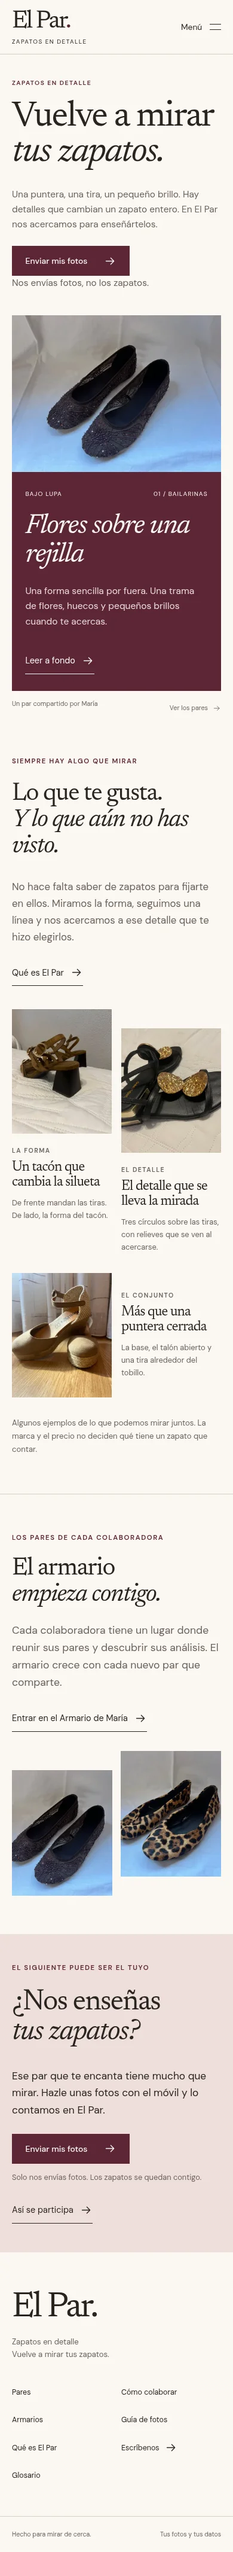
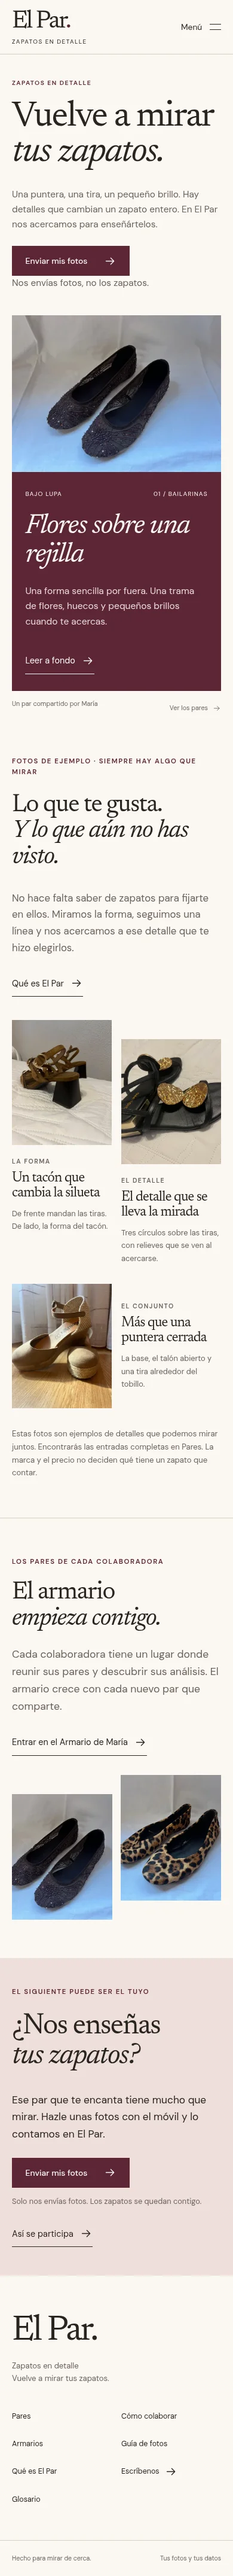
Distingue las fotos de ejemplo y completa la revisión de la web

diff --git a/sitio/tests/site.spec.ts b/sitio/tests/site.spec.ts
@@ -88,6 +88,14 @@ test('Inicio y participación abren el mismo Tally directamente', async ({ page 
   }
 });
 
+test('Las fotos de ejemplo se distinguen de las entradas del catálogo', async ({ page }) => {
+  await page.goto('/');
+  await expect(page.getByText('Fotos de ejemplo · Siempre hay algo que mirar')).toBeVisible();
+  await expect(page.locator('.look-row').getByRole('link')).toHaveCount(0);
+  await page.goto('/pares/');
+  await expect(page.locator('.pair-card')).toHaveCount(pairSources.length);
+});
+
 test('El menú móvil abre por teclado y se cierra con Escape', async ({ page }) => {
   await page.setViewportSize({ width: 390, height: 844 });
   await page.goto('/');

diff --git a/docs/REVISION.md b/docs/REVISION.md
@@ -28,11 +28,15 @@ Se usa la presentación aprobada de Drive, las fotografías autorizadas y citas 
 
 ![Guía con las seis vistas de PAR-0003 y su detalle ampliado](vistas/guia-de-fotos.webp)
 
+## Análisis con bloques MDX
+
+![Análisis de PAR-0003, con fotos junto a cada detalle y la cita de María](vistas/analisis.webp)
+
 ## Verificaciones
 
 - Tipos y compilación de Astro: 0 errores, advertencias o sugerencias.
 - 13 documentos HTML: enlaces locales, anclas, identificadores, estructura, imágenes y anchos reales de cada srcset verificados.
-- 15 pruebas de navegador: todas las rutas en cinco anchos de 360 a 1440 px, acceso directo a Tally, menú por teclado, definiciones, ampliación, guía e impresión desde una visita sin recorrer la página, armarios, recuperación del 404 y lectura sin JavaScript.
+- 16 pruebas de navegador: todas las rutas en cinco anchos de 360 a 1440 px, acceso directo a Tally, distinción entre fotos de ejemplo y catálogo, menú por teclado, definiciones, ampliación, guía e impresión desde una visita sin recorrer la página, armarios, recuperación del 404 y lectura sin JavaScript.
 - Auditoría automática axe con reglas WCAG 2 A/AA y 2.1 AA en todas las páginas públicas. Superar la auditoría automática no certifica accesibilidad completa; se revisaron además teclado y vistas de móvil y escritorio.
 - Formato de código comprobado y dependencias de producción sin vulnerabilidades en la auditoría de npm.
 - Servidor de desarrollo comprobado en una copia temporal: al guardar cambios de título y posición de la cita en MDX, la entrada local se actualiza sin editar una plantilla.

diff --git a/docs/AUDITORIA.md b/docs/AUDITORIA.md
@@ -118,3 +118,11 @@ El procesamiento de nuevas fotografías sigue descrito como procedimiento, no co
 - Teclado, ampliación con devolución de foco, navegación móvil, reducción de movimiento y pruebas automatizadas aportan una base de accesibilidad útil. Las pruebas automatizadas no equivalen a certificación completa.
 
 No hay un incumplimiento de dirección que exija rehacer de nuevo el producto. Antes de cerrar, corregir los casos encontrados, reorganizar el CSS y repetir únicamente las pruebas y vistas afectadas.
+
+## Segunda revisión del resultado
+
+El mismo revisor examinó las correcciones y el paso a MDX. No encontró nuevos bloqueos de implementación. Verificó en Chromium la carga completa antes de imprimir y un PDF con las vistas que antes faltaban; también comprobó los bloques de análisis, la cita, la definición interactiva y las tres tarjetas del armario.
+
+La modularidad resulta adecuada para este alcance: contenido por entrada, bloques editoriales reutilizables, contexto tipado por ruta, identidades públicas pequeñas y armarios automáticos. La cita puede moverse sin cambiar plantillas. Los estilos tienen responsables, adaptaciones locales y una cascada explícita; se recomienda mantener CSS propio. La documentación explica redacción local, borradores, publicación y mantenimiento.
+
+La aprobación editorial y las decisiones reconocidas de imágenes y lanzamiento siguen pendientes. Esta revisión técnica no las sustituye.
